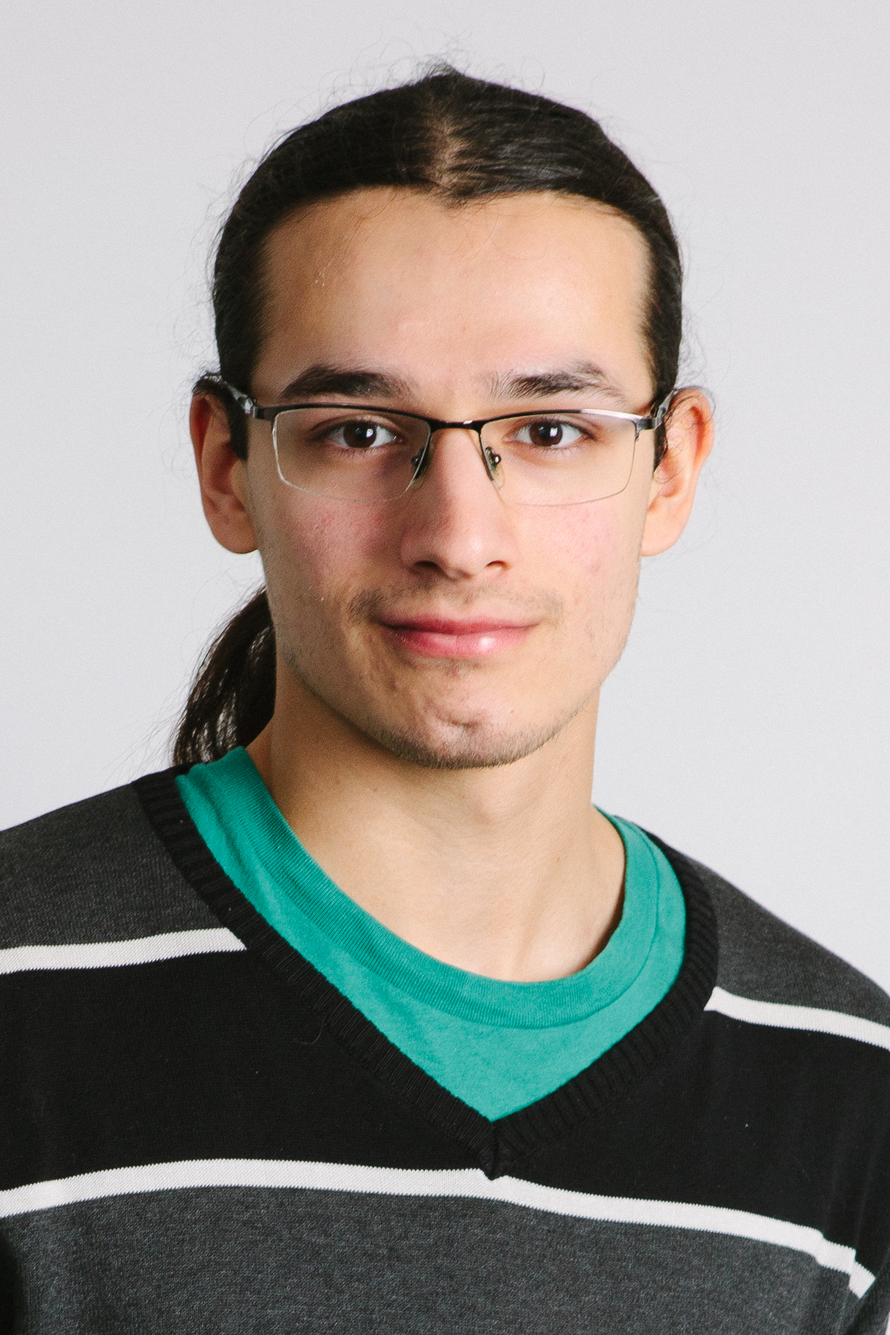
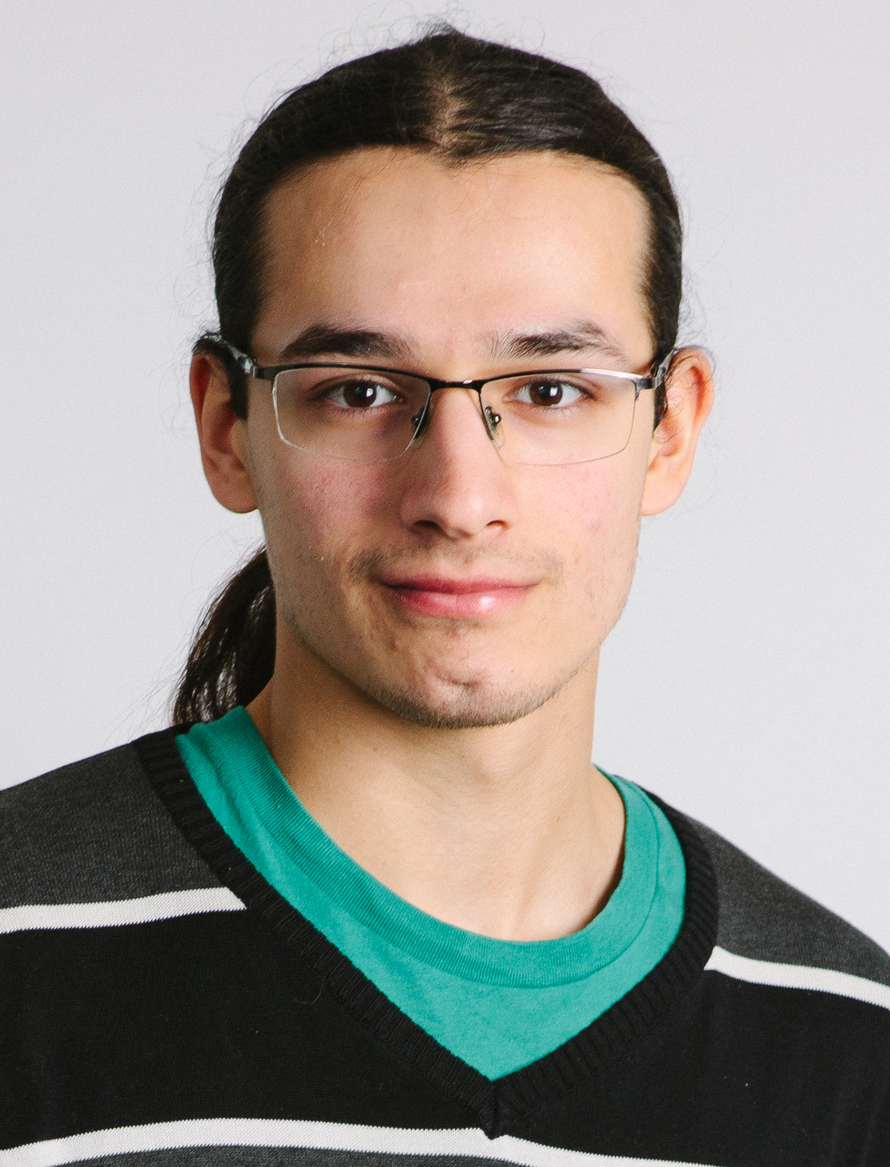
created footer

diff --git a/src/components/footer.js b/src/components/footer.js
@@ -1,0 +1,33 @@
+import React from 'react';
+import styled from 'styled-components';
+
+import linkedIn from '../assets/LI.png';
+import github from '../assets/github.png';
+
+const Container = styled.section`
+  width: 100vw;
+  background-color: black;
+  color: white;
+  position: absolute;
+  bottom: 0;
+  display: flex;
+  justify-content: flex-end;
+  align-items: center;
+`;
+
+const Icon = styled.img`
+  height: 3em;
+  width: auto;
+  margin: 1em;
+`;
+
+const Footer = () => {
+  return (
+    <Container>
+      <a href="https://github.com/RohanSSS"><Icon src={github} /></a>
+      <a href="https://www.linkedin.com/in/rohan-shah-summers-995406112/"><Icon src={linkedIn} /></a>
+    </Container>
+  );
+};
+
+export default Footer;

diff --git a/src/App.js b/src/App.js
@@ -1,16 +1,26 @@
-import React from "react";
-import "./App.css";
-import { Wip, Header } from './components';
-import Home from './pages/home'
+import React from 'react';
+import styled from 'styled-components';
 
-function App() {
+import { Wip, Header, Footer } from './components';
+import Home from './pages/home';
+
+const AppSection = styled.div`
+  text-align: center;
+  display: flex;
+  flex-direction: column;
+  min-height: 100vh;
+  position: relative;
+`;
+
+const App = () => {
   return (
-    <div className="App">
+    <AppSection>
       <Wip />
       <Header />
       <Home />
-    </div>
+      <Footer />
+    </AppSection>
   );
-}
+};
 
 export default App;

diff --git a/src/components/header.js b/src/components/header.js
@@ -1,5 +1,5 @@
 import React from 'react';
-import styled from 'styled-components'
+import styled from 'styled-components';
 
 const Container = styled.section`
   background-color: black;
@@ -17,7 +17,7 @@ const Header = () => {
     <Container>
       <Title>Who Am I</Title>
     </Container>
-  )
-}
+  );
+};
 
 export default Header;

diff --git a/src/pages/home.js b/src/pages/home.js
@@ -13,9 +13,9 @@ const Container = styled.section`
 `;
 
 const Image = styled.img`
-  width: 30vw;
+  /* width: 30vw; */
   min-width: 10em;
-  heigt: auto;
+  max-width: 20em;
   border-radius: 50%;
   border: solid 3px black;
 `;

diff --git a/src/components/index.js b/src/components/index.js
@@ -1,7 +1,9 @@
 import Wip from './wip';
 import Header from './header';
+import Footer from './footer';
 
 export {
   Wip,
-  Header
+  Header,
+  Footer,
 };
